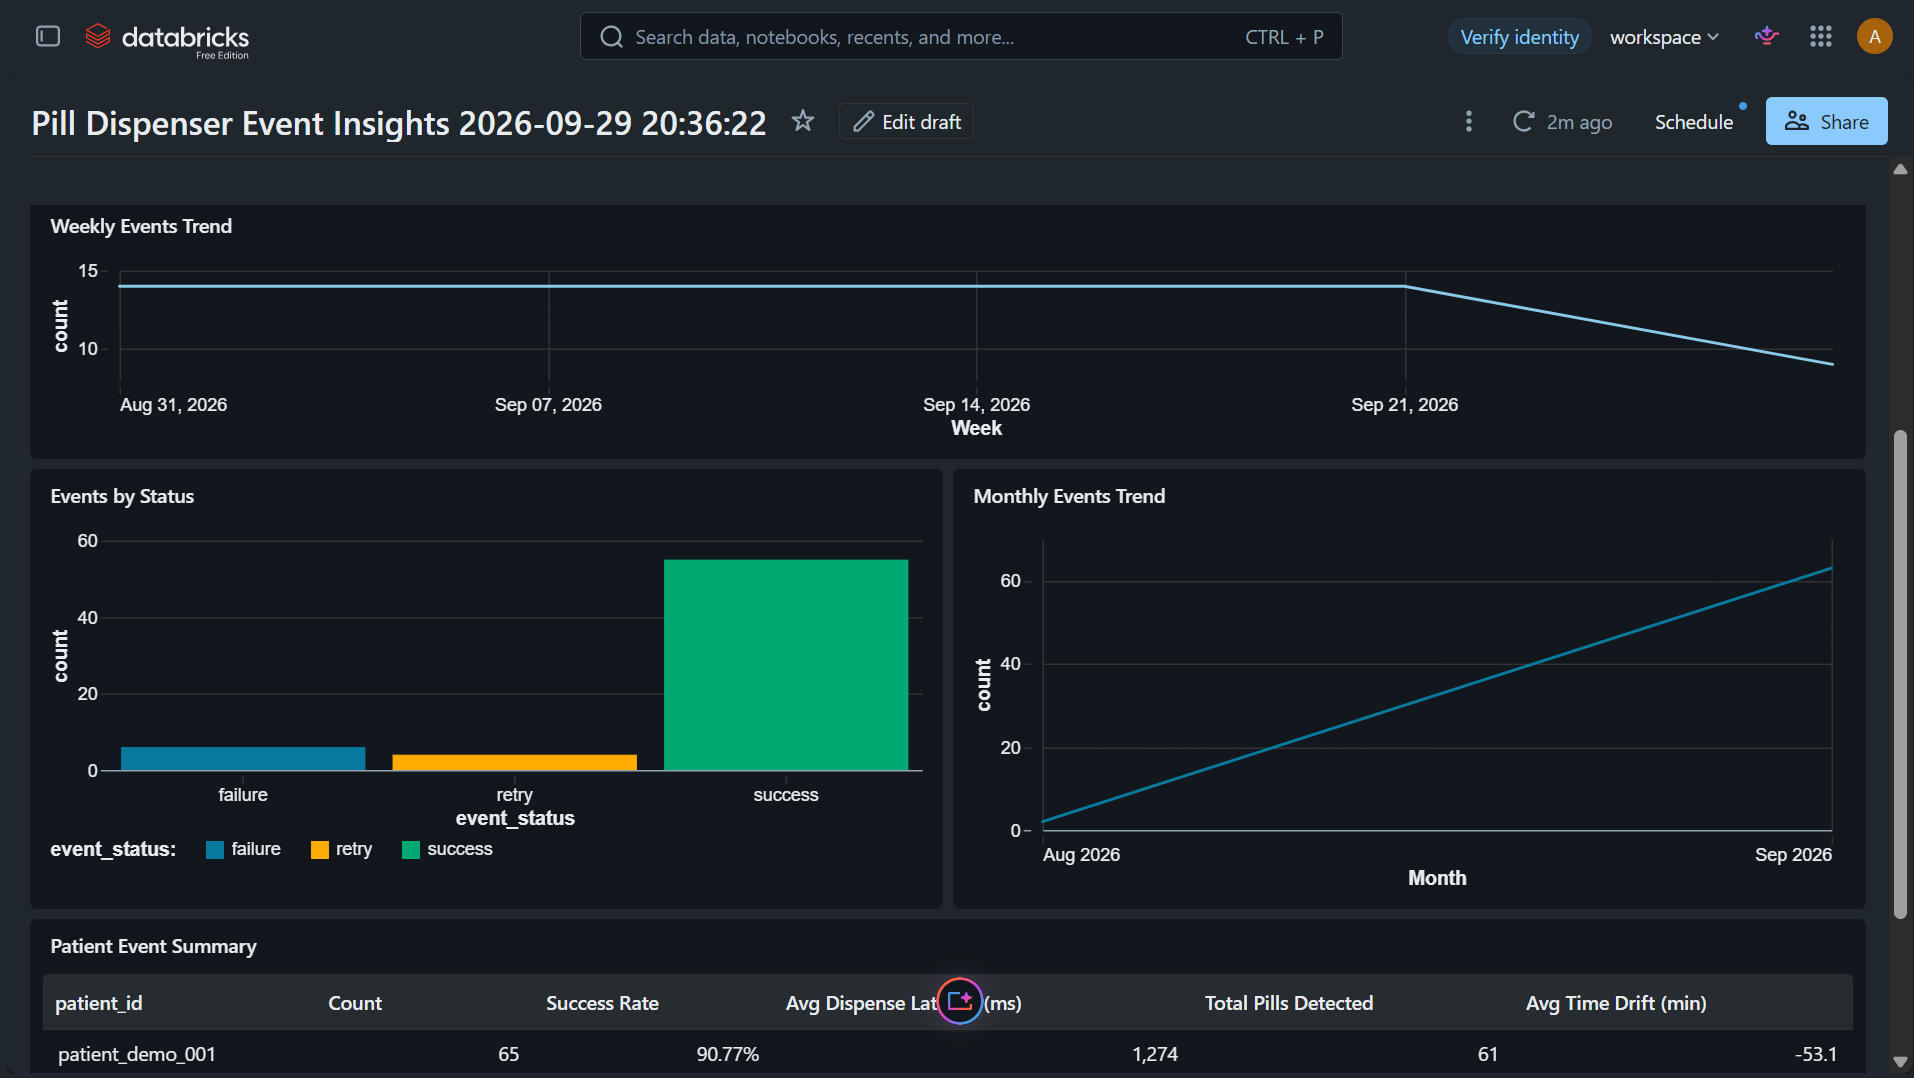
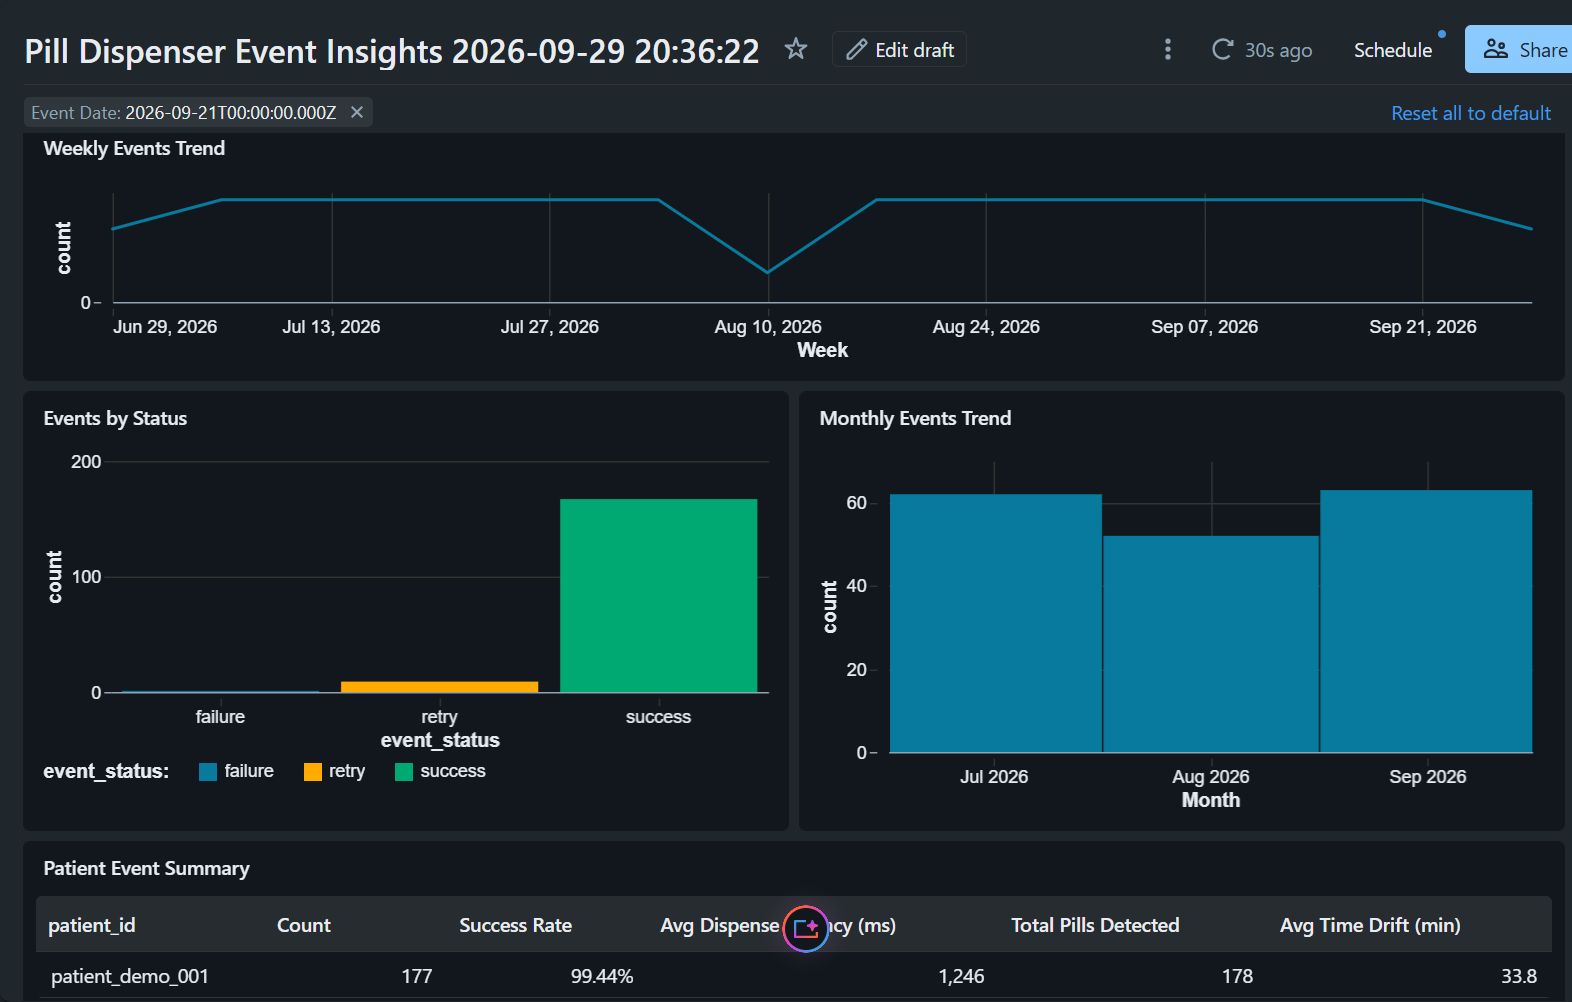
docs: refresh the published Databricks dashboard screenshot
The README image now shows the three-month trends, including the August dip and the patient summary for patient_demo_001.

diff --git a/README.md b/README.md
@@ -19,7 +19,7 @@ Medication non-adherence costs the healthcare system billions and hits elderly a
 
 Published dashboard (SQL warehouse, `pill_dispenser.dashboard_doses` and `pill_dispenser.gold_adherence_7d`): <https://dbc-841e48ce-abec.cloud.databricks.com/dashboardsv3/01f1bc66f608184bb87e728ccb7f308e/published?o=7474657233579766>
 
-![Pill Dispenser Event Insights dashboard for patient_demo_001: weekly and monthly event counts, events by status, and adherence summary](docs/diagrams/databricks_dashboard.png)
+![Pill Dispenser Event Insights for patient_demo_001: weekly counts dip in the week of 10 Aug, August is lower than July and September, events are mostly success with a few retries, and the summary shows 177 events at 99.44% success](docs/diagrams/databricks_dashboard.png)
 
 ## Repository
 
